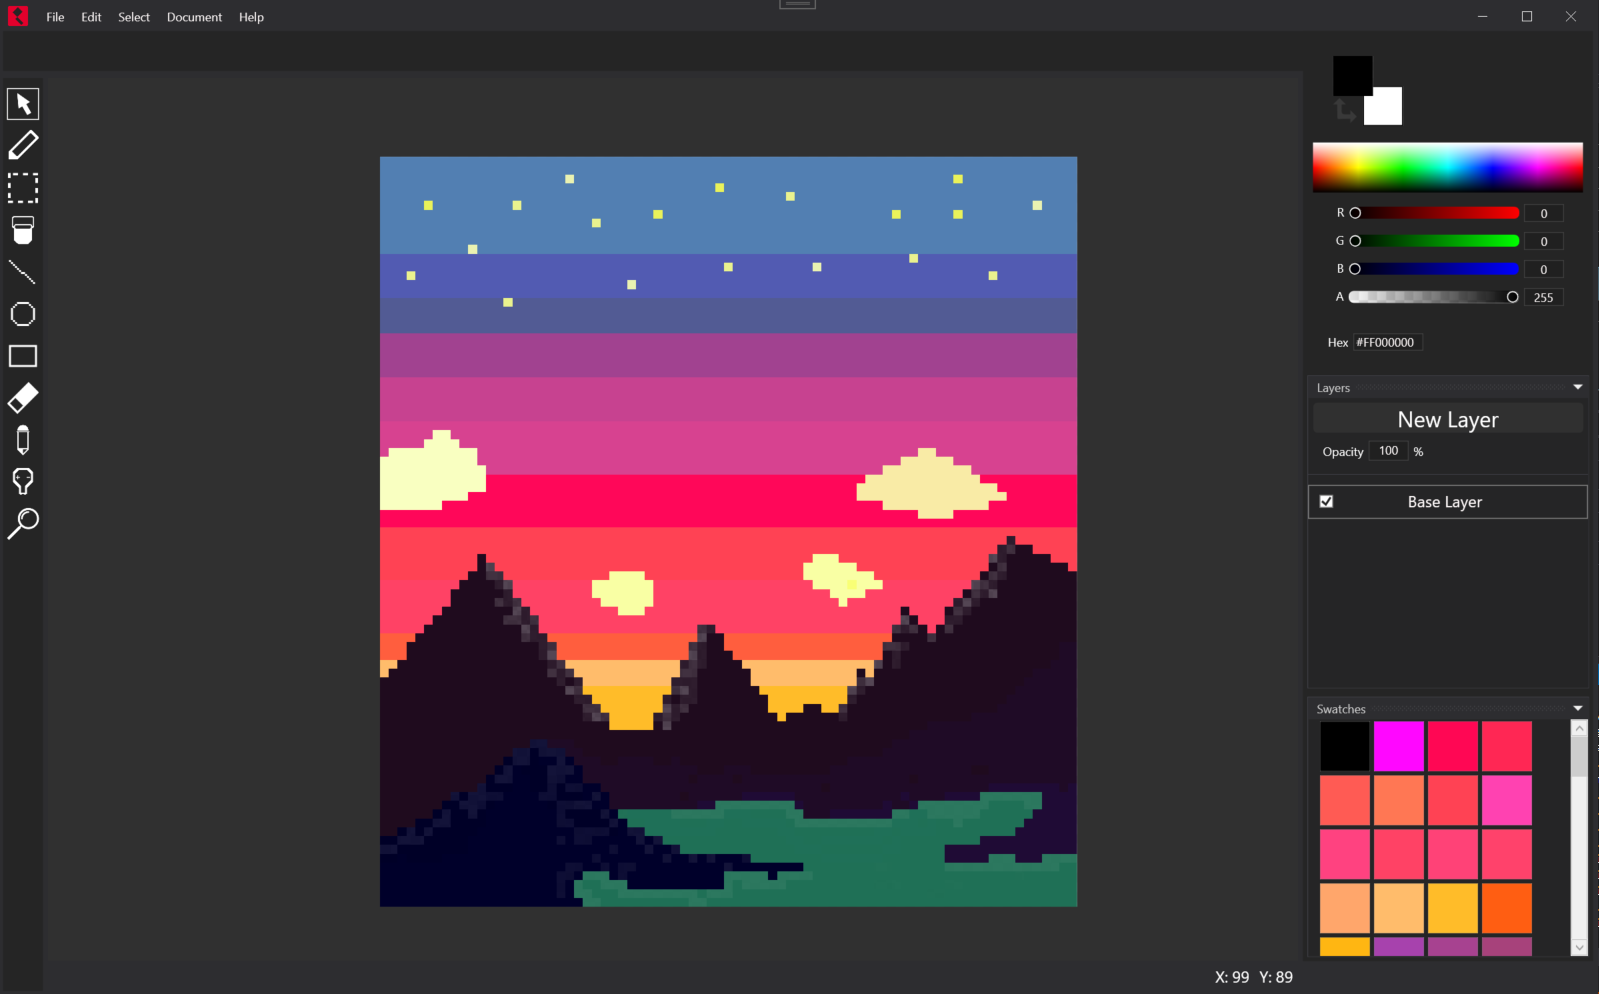
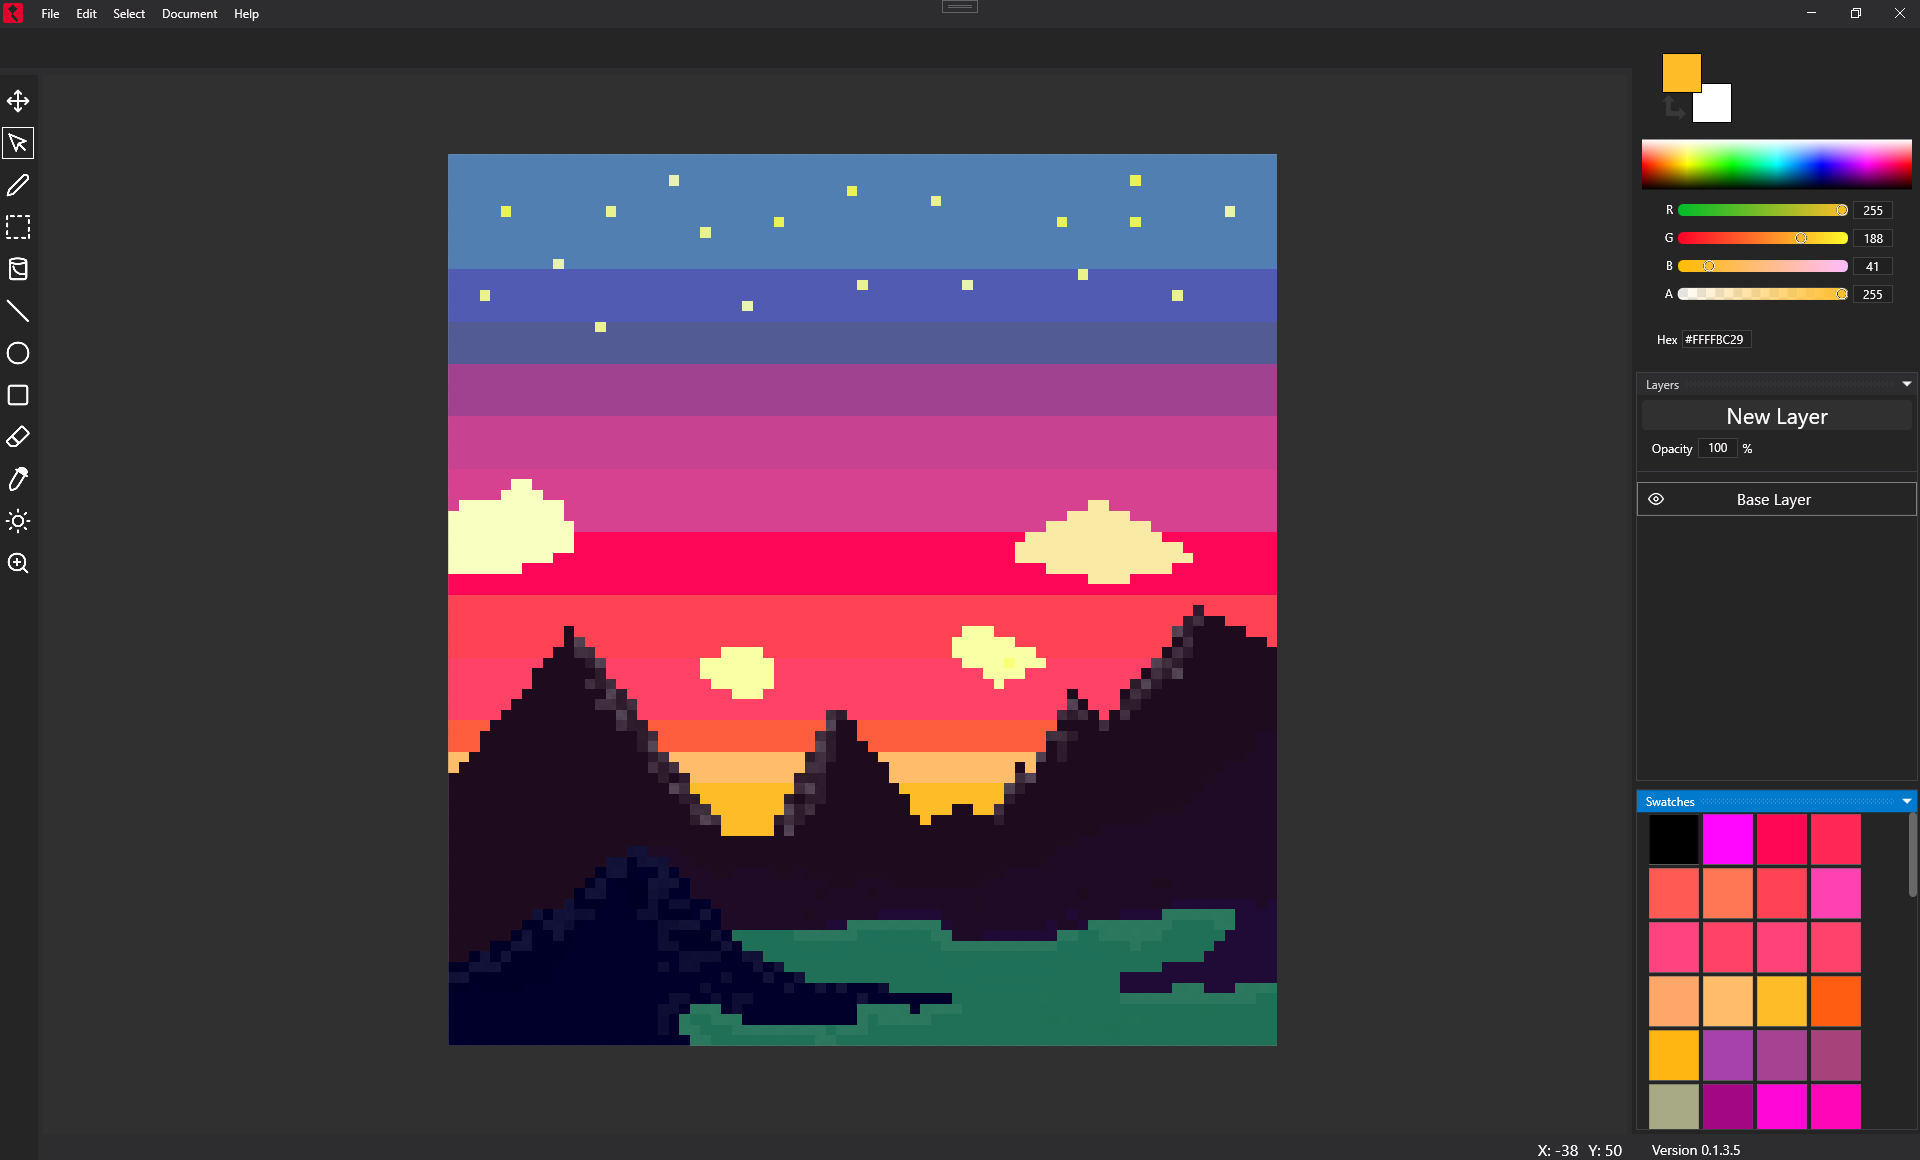
Added eye checkbox and updated screenshot

diff --git a/PixiEditor/Styles/ImageCheckBoxStyle.xaml b/PixiEditor/Styles/ImageCheckBoxStyle.xaml
@@ -1,0 +1,21 @@
+<ResourceDictionary xmlns="http://schemas.microsoft.com/winfx/2006/xaml/presentation"
+                    xmlns:x="http://schemas.microsoft.com/winfx/2006/xaml"
+                    xmlns:local="clr-namespace:PixiEditor.Styles">
+    <Style TargetType="{x:Type CheckBox}" x:Key="ImageCheckBox">
+        <Setter Property="Template">
+            <Setter.Value>
+                <ControlTemplate TargetType="{x:Type CheckBox}">
+                    <StackPanel Orientation="Horizontal">
+                        <Image Cursor="Hand" x:Name="checkboxImage" Source="../Images/Eye-off.png" Width="36"/>
+                        <ContentPresenter/>
+                    </StackPanel>
+                    <ControlTemplate.Triggers>
+                        <Trigger Property="IsChecked" Value="True">
+                            <Setter TargetName="checkboxImage" Property="Source" Value="../Images/Eye.png"/>
+                        </Trigger>
+                    </ControlTemplate.Triggers>
+                </ControlTemplate>
+            </Setter.Value>
+        </Setter>
+    </Style>
+</ResourceDictionary>

diff --git a/PixiEditor/Views/LayerItem.xaml b/PixiEditor/Views/LayerItem.xaml
@@ -26,7 +26,7 @@
                 <ColumnDefinition Width="199*" />
                 <ColumnDefinition Width="35" />
             </Grid.ColumnDefinitions>
-            <CheckBox VerticalAlignment="Center"
+            <CheckBox Style="{StaticResource ImageCheckBox}" VerticalAlignment="Center"
                       IsThreeState="False" HorizontalAlignment="Center"
                       IsChecked="{Binding Path=IsVisible, Mode=TwoWay}" Grid.Column="0" Height="16" />
             <local:EditableTextBlock

diff --git a/PixiEditor/App.xaml b/PixiEditor/App.xaml
@@ -13,6 +13,7 @@
                 <ResourceDictionary Source="Styles/AnchorPointToggleButtonStyle.xaml" />
                 <ResourceDictionary Source="Styles/DockingManagerStyle.xaml" />
                 <ResourceDictionary Source="Styles/DarkScrollBarStyle.xaml" />
+                <ResourceDictionary Source="Styles/ImageCheckBoxStyle.xaml" />
             </ResourceDictionary.MergedDictionaries>
         </ResourceDictionary>
     </Application.Resources>
